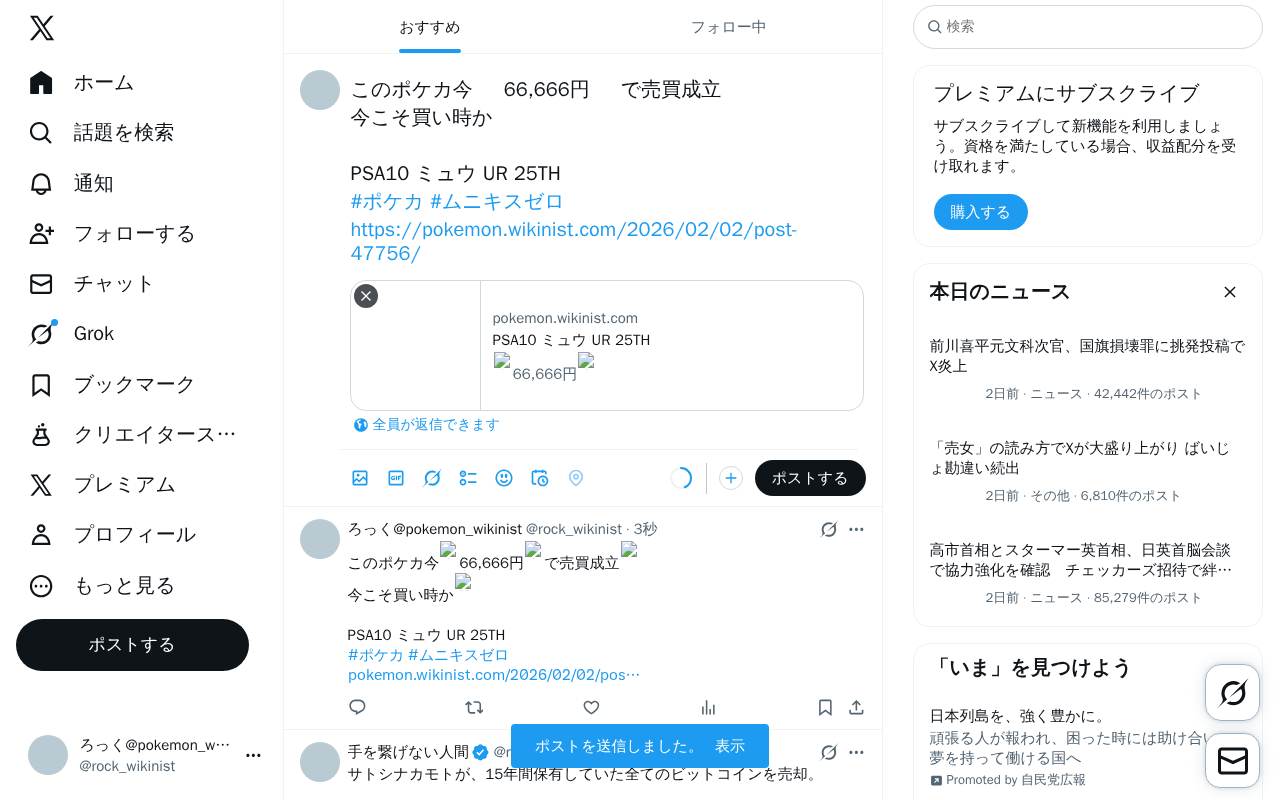
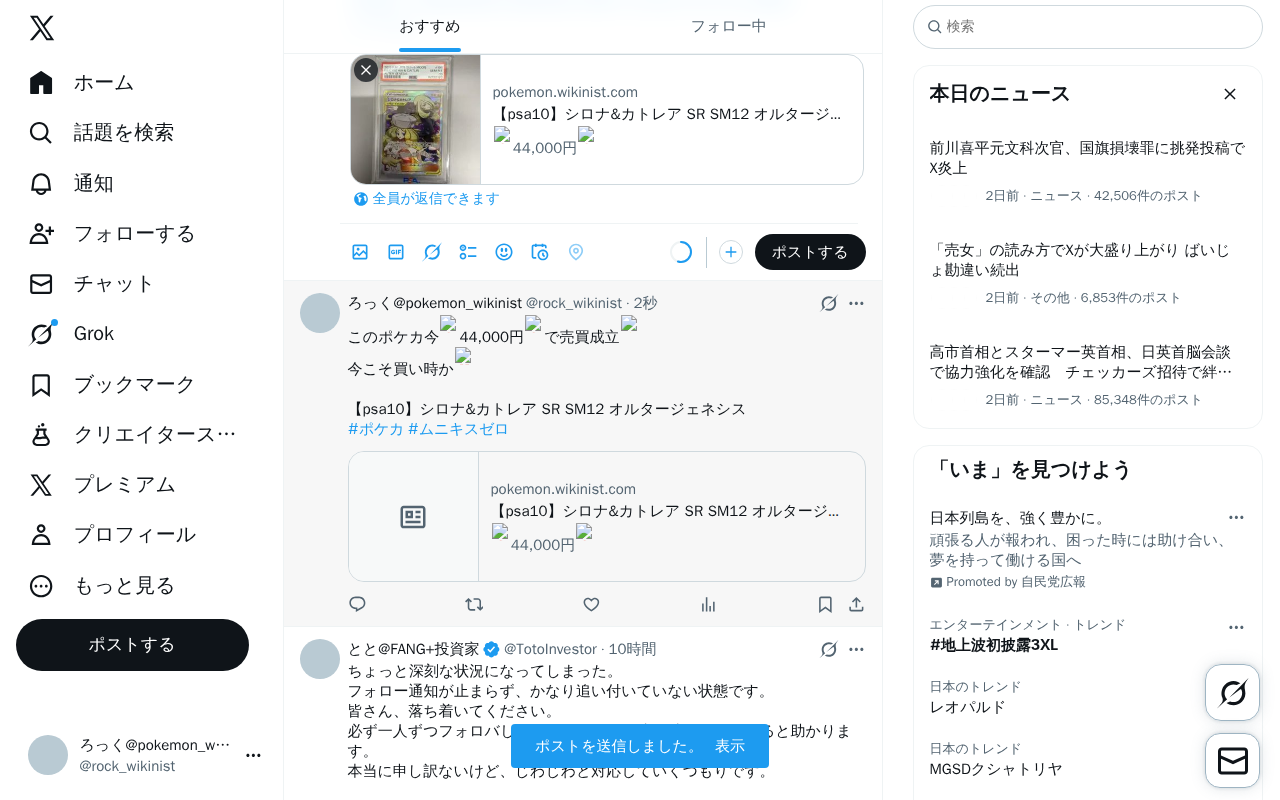
update system data

diff --git a/content/posts/test-pokemon-20260202-205236.md b/content/posts/test-pokemon-20260202-205236.md
@@ -1,0 +1,38 @@
+---
+title: "【psa10】シロナ&カトレア SR SM12 オルタージェネシス"
+date: 2026-02-02T20:52:36+09:00
+description: "🔥44,000円🔥 メルカリで「【psa10】シロナ&カトレア SR SM12 オルタージェネシス」が販売中！"
+amazon_url: "https://jp.mercari.com/item/m40713166691?afid=1391290753"
+robotsNoIndex: true
+categories: ["ポケモン"]
+tags: ["3万円以上"]
+cover:
+  image: "https://static.mercdn.net/thumb/item/webp/m40713166691_1.jpg?1769723476"
+  hiddenInList: true
+  hiddenInSingle: true
+---
+
+<div class="image-and-buttons">
+    <div class="image-area" style="margin-bottom: 20px; text-align: center;">
+        <a href="https://jp.mercari.com/item/m40713166691?afid=1391290753" target="_blank" rel="nofollow sponsored noopener noreferrer">
+            <img src="https://static.mercdn.net/thumb/item/webp/m40713166691_1.jpg?1769723476" alt="44,000" style="max-width: 100%; border-radius: 8px; border: 1px solid #ddd;" />
+        </a>
+        <br><span style="font-size:1.5em;color:red;font-weight:bold;">🔥44,000円🔥</span>
+    </div>
+    <div class="link-buttons">
+        <a href="https://jp.mercari.com/item/m40713166691?afid=1391290753" target="_blank" rel="nofollow sponsored noopener noreferrer">
+            💎 商品状態を見る
+        </a>
+        <a href="https://jp.mercari.com/search?afid=1391290753&category_id=1289&keyword=%E3%80%90psa10%E3%80%91%E3%82%B7%E3%83%AD%E3%83%8A%26%E3%82%AB%E3%83%88%E3%83%AC%E3%82%A2%20SR%20SM12%20%E3%82%AA%E3%83%AB%E3%82%BF%E3%83%BC%E3%82%B8%E3%82%A7%E3%83%8D%E3%82%B7%E3%82%B9" target="_blank" rel="nofollow sponsored noopener noreferrer">
+            🔍 類似商品を見る
+        </a>
+        <a href="https://jp.mercari.com/search?afid=1391290753&brand_id=&category_id=1289&color_id=&item_condition_id=&item_types=&keyword=%E3%80%90psa10%E3%80%91%E3%82%B7%E3%83%AD%E3%83%8A%26%E3%82%AB%E3%83%88%E3%83%AC%E3%82%A2%20SR%20SM12%20%E3%82%AA%E3%83%AB%E3%82%BF%E3%83%BC%E3%82%B8%E3%82%A7%E3%83%8D%E3%82%B7%E3%82%B9&order=desc&shipping_method=&shipping_payer_id=&size_id=&sort=created_time&status=sold_out%2Ctrading" target="_blank" rel="nofollow sponsored noopener noreferrer">
+            📈 価格推移・履歴を見る
+        </a>
+    </div>
+</div>
+
+<p style="font-size:1.0em;color:#555;line-height:1.6;">
+「【psa10】シロナ&カトレア SR SM12 オルタージェネシス」はメルカリに出品されました！<br>
+最新のポケモン情報は当サイトで随時更新中です。
+</p>
